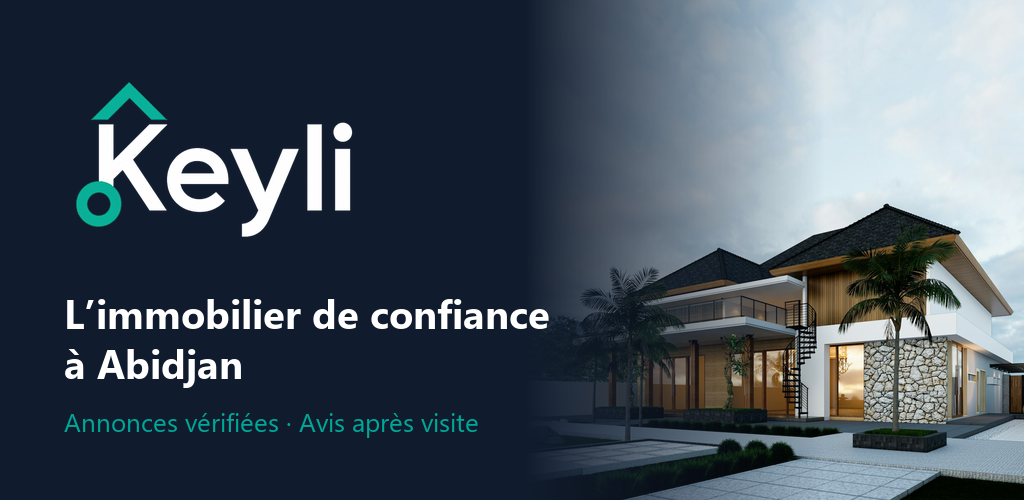
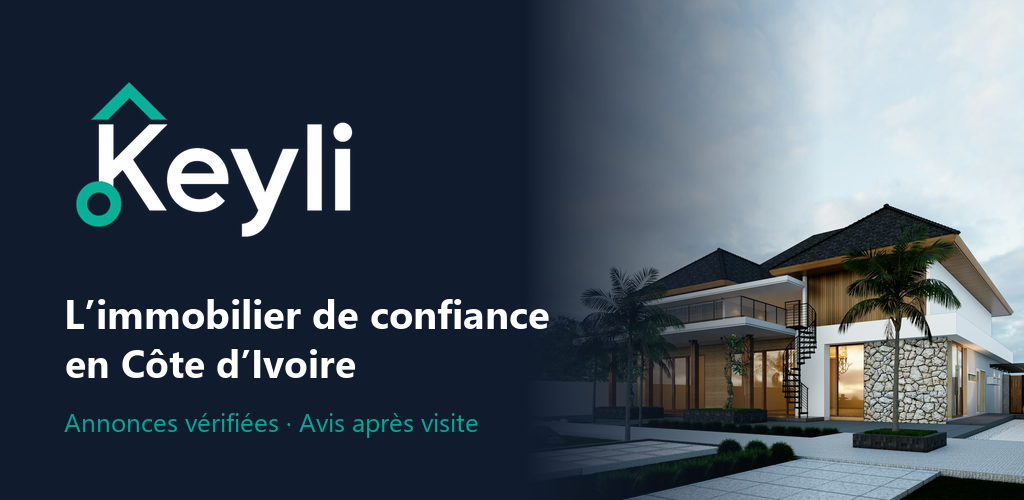
Fiche Google Play : image de présentation et textes pour la Côte d'Ivoire
L'image de présentation dit « en Côte d'Ivoire » au lieu de « à Abidjan »,
et la description complète cite les six villes du pilote (Korhogo et Daloa
ajoutées). État d'avancement mis à jour.

Changed region(s): [[0.0625, 0.69, 0.3438, 0.78]]

diff --git a/docs/etat_avancement.md b/docs/etat_avancement.md
@@ -1073,6 +1073,20 @@ concernés :
   fusion de `feature/pilote-national` (avec l'accord du porteur), puis
   `npm run deploy` et redéploiement de `envoyer-emails`.
 
+### Session du 2026-11-15 (suite) — déploiement, compilations, fiche Google Play
+- Web redéployé (`npm run deploy`) après libération d'espace disque ;
+  cache `npx` de wrangler corrompu par le disque plein, vidé.
+- Compilations Codemagic iOS (TestFlight) et Android (test interne)
+  lancées sur `main` : réussies (confirmé par le porteur).
+- Fiche Google Play par défaut complétée et enregistrée (brouillon) : icône
+  Keyli, image de présentation « en Côte d'Ivoire » (au lieu de « à
+  Abidjan »), 7 captures, textes aux six villes du pilote
+  (`apps/mobile/fiche-store/`).
+- Reste au porteur : « Suivant » → déclaration des éléments d'IA →
+  « Enregistrer », puis envoi à l'examen depuis « Vue d'ensemble de la
+  publication ». La capture `01-bienvenue` dit encore « à Abidjan » (à
+  retirer ou reprendre).
+
 ## Modèle à copier pour chaque nouvelle entrée de session
 
 ```

diff --git a/apps/mobile/fiche-store/textes-play.md b/apps/mobile/fiche-store/textes-play.md
@@ -16,7 +16,7 @@ Louer ou acheter en Côte d'Ivoire : annonces vérifiées, annonceurs identifié
 
 ## Description complète (4 000 caractères max.)
 
-Keyli, c'est l'immobilier de confiance en Côte d'Ivoire : Abidjan, Bouaké, San-Pédro et Yamoussoukro. Trouvez un appartement, un studio, une maison ou une villa à louer ou à vendre, et échangez avec des propriétaires et des agences identifiés.
+Keyli, c'est l'immobilier de confiance en Côte d'Ivoire : Abidjan, Bouaké, San-Pédro, Yamoussoukro, Korhogo et Daloa. Trouvez un appartement, un studio, une maison ou une villa à louer ou à vendre, et échangez avec des propriétaires et des agences identifiés.
 
 POURQUOI KEYLI ?
 • Des annonces vérifiées : les documents des propriétaires et des agences sont contrôlés par l'équipe Keyli. Les annonces vérifiées portent un badge officiel et apparaissent en premier.
